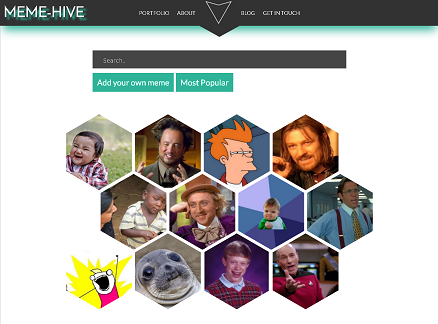
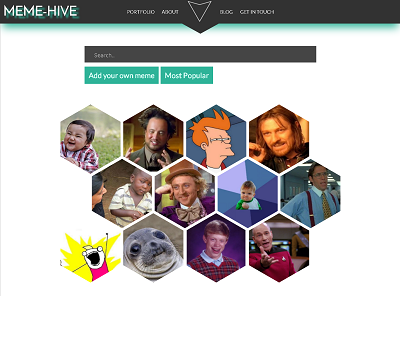
pics

diff --git a/index.html b/index.html
@@ -124,7 +124,7 @@
                     </div>
                 </div>
                 <div id="contact">
-                    <h2></h2>
+                    <h2>Let’s do something inspiring together</h2>
                     <form id="contact_form" action="#" method="POST" enctype="multipart/form-data">
                         <div class="row">
                             <input id="name" class="input" placeholder="Name" name="name" type="text" value="" size="60" /><br />

diff --git a/style.css b/style.css
@@ -254,7 +254,8 @@ h6 {
     margin: auto;
 }
 .porj-container img {
-    max-width: 300px;
+    max-width: 250px;
+    max-height: 250px;
 }
 .portfolio > h1 {
     position: absolute;
@@ -266,10 +267,12 @@ h6 {
     justify-content: center;
     align-items: center;
 }
-
+#contact > h2 {
+    position: absolute;
+    margin: auto;
+    align-self: flex-start;
+    color: #225566;
+}
 .input {
     padding: 12px;
-}
-#contact_form {
-
 }
